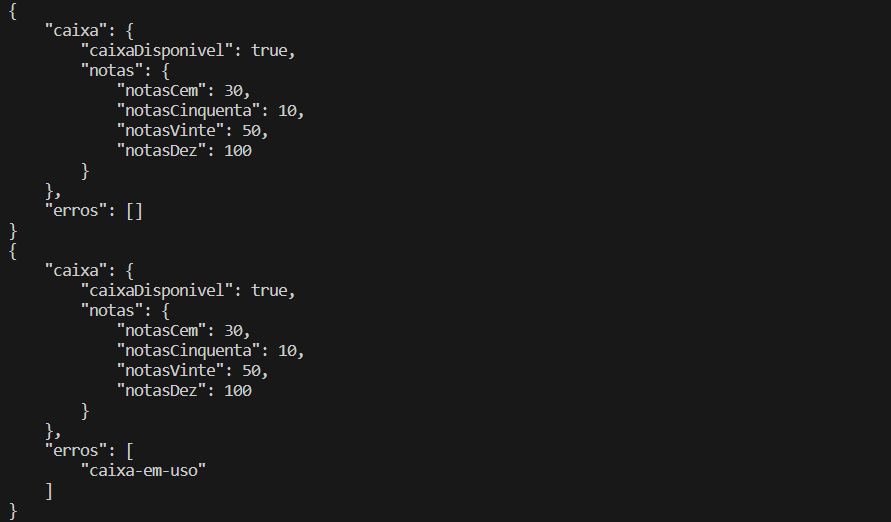
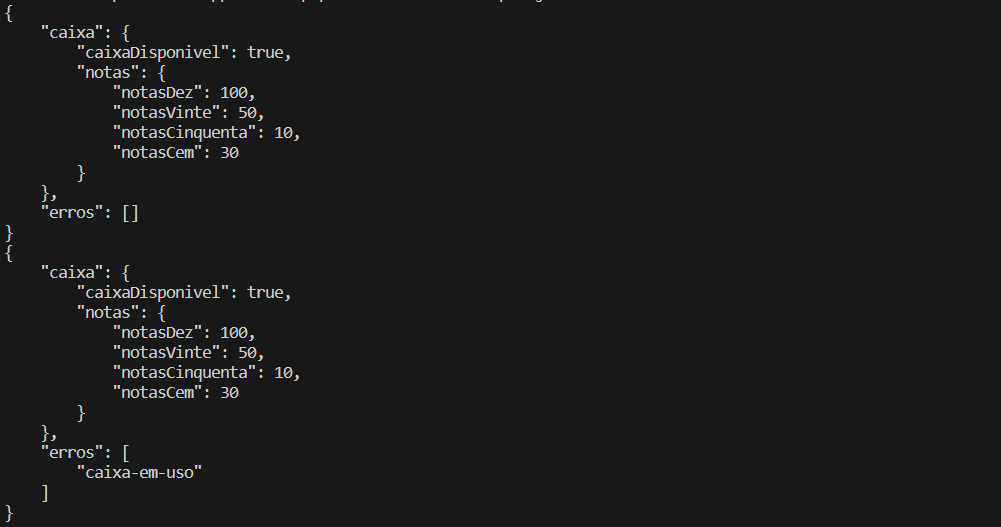
updates

diff --git a/app/Services/Caixa.php b/app/Services/Caixa.php
@@ -16,11 +16,15 @@ class Caixa
      * Notas aceitas pelo caixa para abastecimentos e saques,
      * sendo a chave o nome da nota e o valor o seu respectivo valor.
      */
+    /**
+     * Notas aceitas pelo caixa para abastecimentos e saques,
+     * sendo a chave o nome da nota e o valor o seu respectivo valor.
+     */
     public const NOTAS_ACEITAS = [
-        'notasCem' => 100,
-        'notasCinquenta' => 50,
-        'notasVinte' => 20,
         'notasDez' => 10,
+        'notasVinte' => 20,
+        'notasCinquenta' => 50,
+        'notasCem' => 100,
     ];
 
     /**
@@ -34,10 +38,10 @@ class Caixa
      * @var array<string, int>
      */
     public array $notas = [
-        'notasCem' => 0,
-        'notasCinquenta' => 0,
-        'notasVinte' => 0,
         'notasDez' => 0,
+        'notasVinte' => 0,
+        'notasCinquenta' => 0,
+        'notasCem' => 0,
     ];
 
     /**
